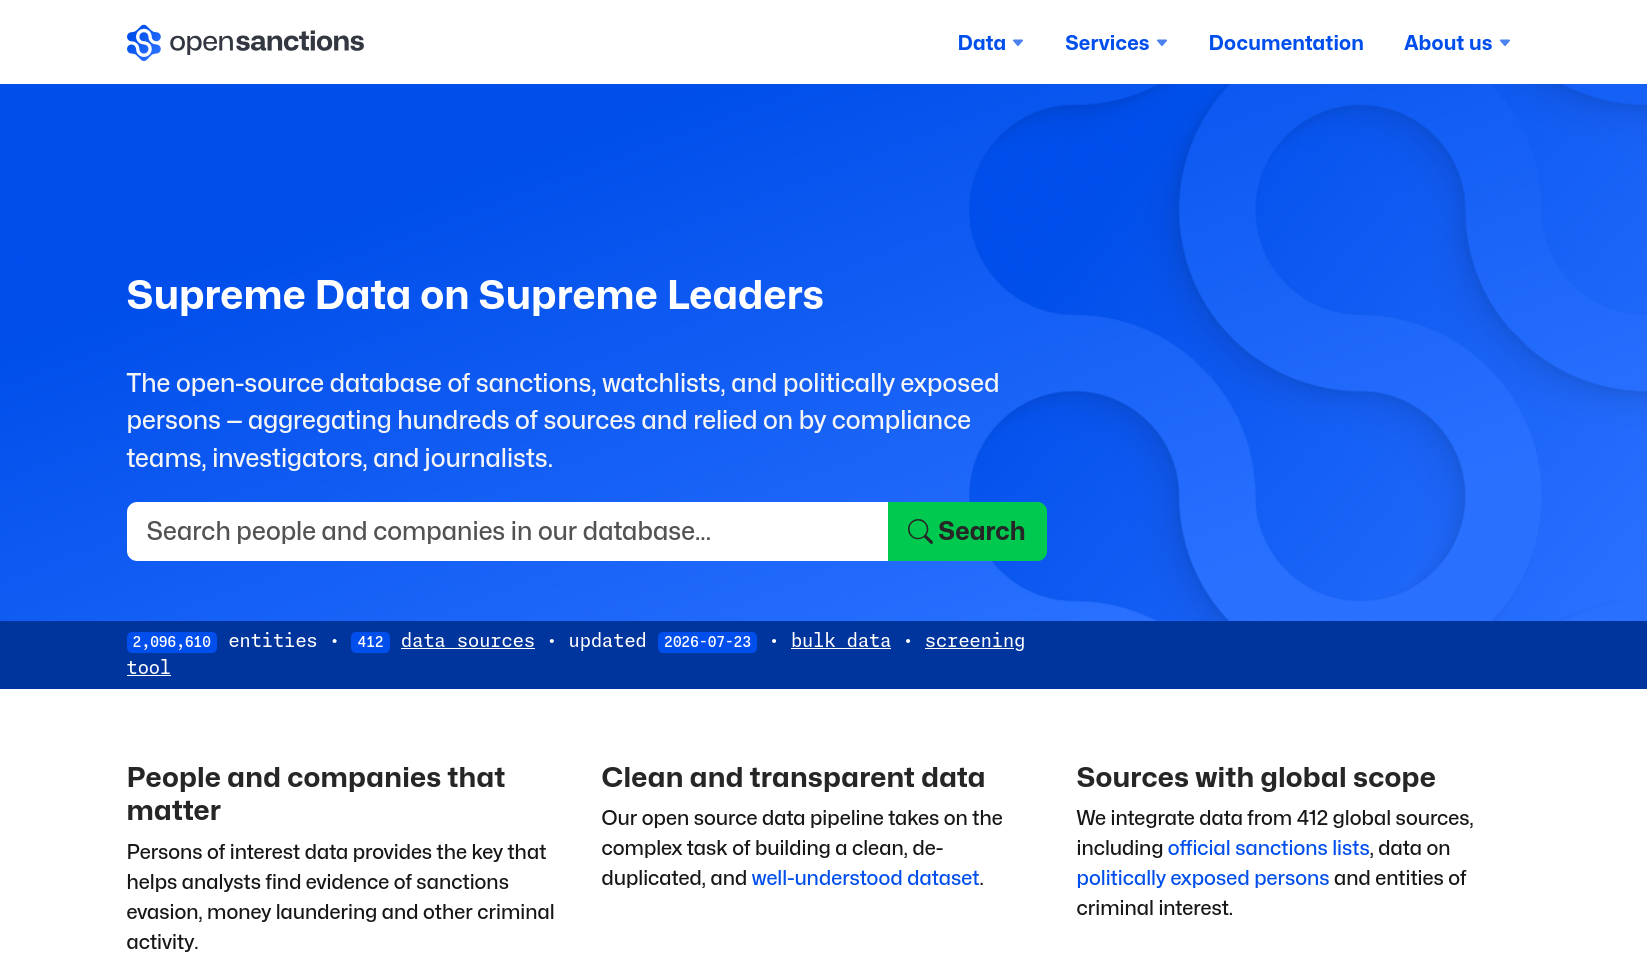
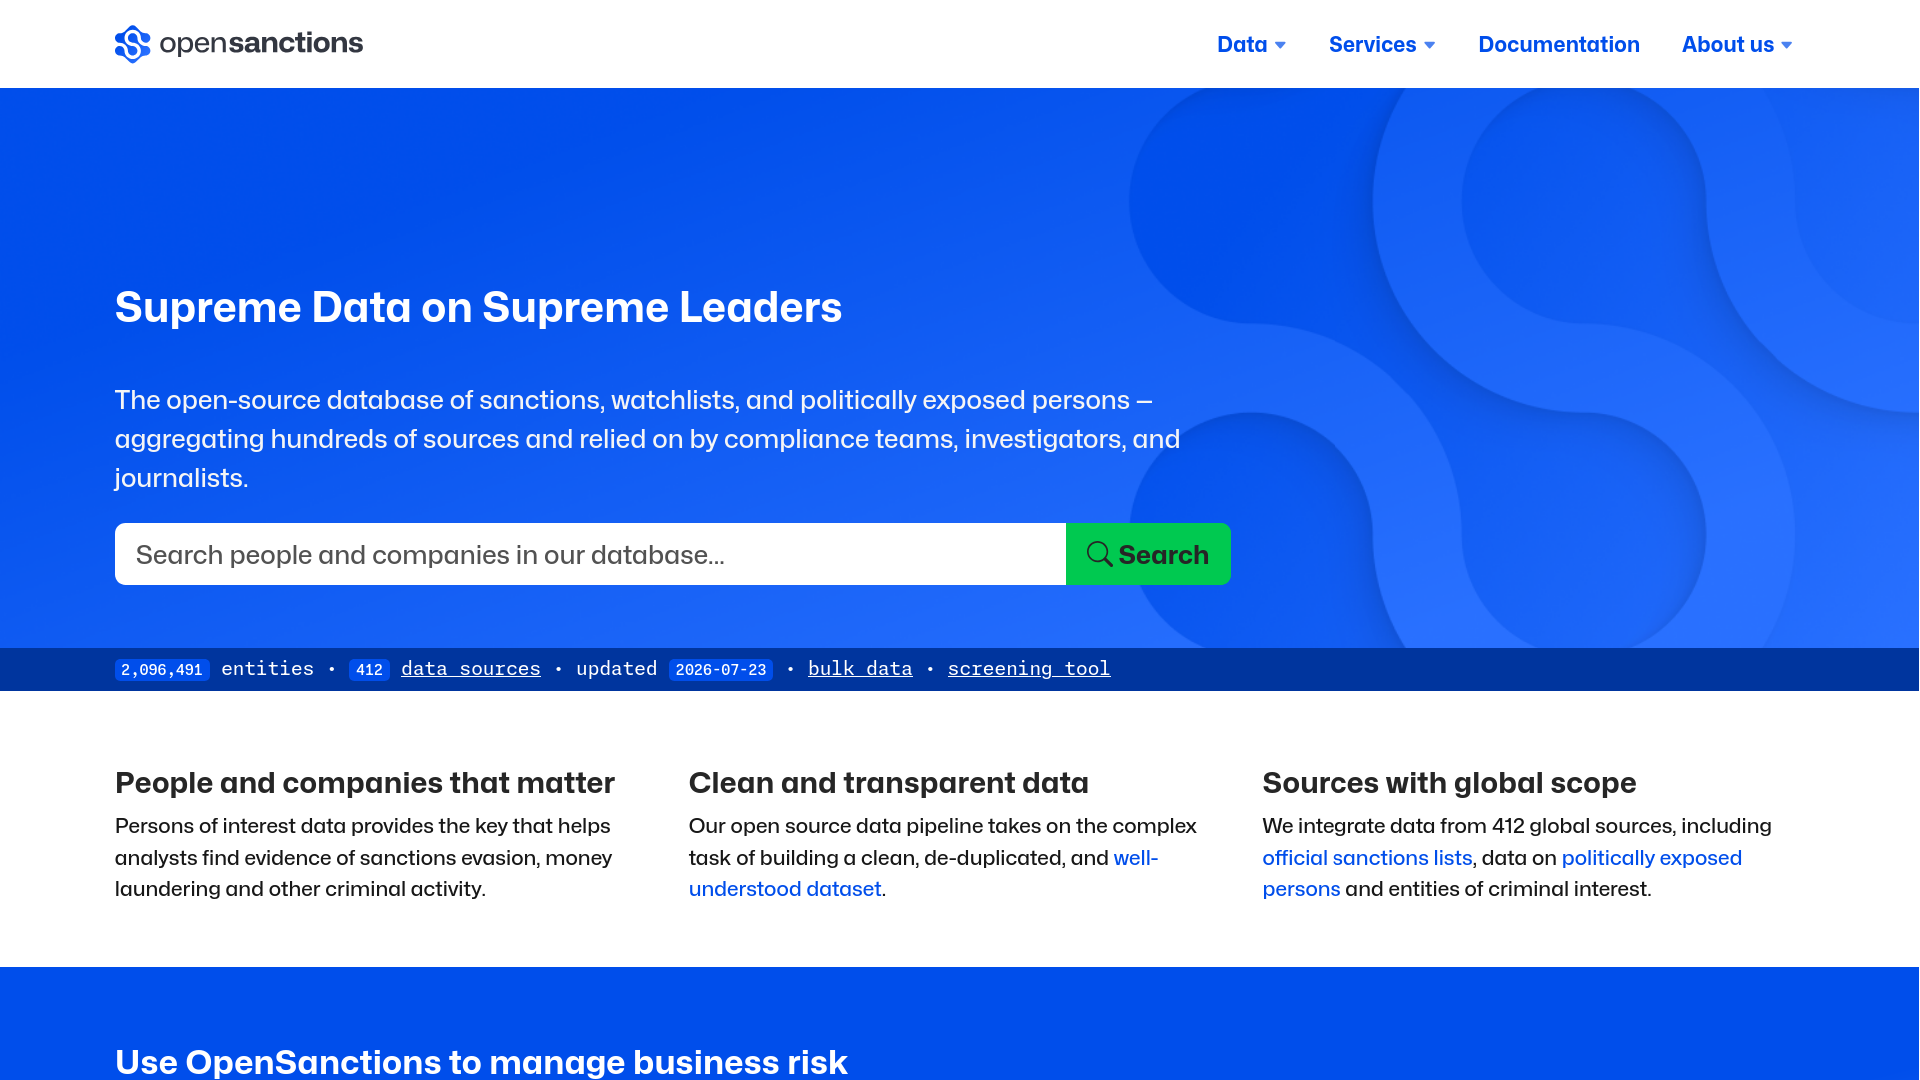
punctuation, screenshot

diff --git a/index.html b/index.html
@@ -254,7 +254,7 @@
         <section class="quote-slide">
           <blockquote>
             &#8220;A lot of the data on the municipality level is still
-            <mark>not accessible or even digital</mark>&#8221;
+            <mark>not accessible or even digital</mark>.&#8221;
           </blockquote>
         </section>
 
@@ -392,7 +392,7 @@
           <p>
             <strong>There is no agreed answer.</strong>
           </p>
-          <p>(We don't have one either)</p>
+          <p>(We don't have one either.)</p>
         </section>
 
         <section>
@@ -462,7 +462,7 @@
           <ul>
             <li>
               mySociety built EveryPolitician — paused 2019, unsustainable on
-              grant funding
+              grant funding.
             </li>
           </ul>
         </section>
@@ -533,10 +533,10 @@
         <section>
           <h2>That's PoliLoom</h2>
           <ul>
-            <li class="fragment">Shows claims + the source passages</li>
-            <li class="fragment">You confirm or reject</li>
+            <li class="fragment">Shows claims + the source passages.</li>
+            <li class="fragment">You confirm or reject.</li>
             <li class="fragment">
-              Confirmed edits go to Wikidata under <em>your</em> account
+              Confirmed edits go to Wikidata under <em>your</em> account.
             </li>
           </ul>
         </section>
@@ -1371,18 +1371,18 @@
                 target="_blank"
                 rel="noopener"
                 >loom.everypolitician.org</a
-              >
+              >.
             </li>
-            <li>Log in with your Wiki account</li>
-            <li>Chose languages you speak (and optionally a country)</li>
-            <li>Verify</li>
+            <li>Log in with your Wiki account.</li>
+            <li>Choose languages you speak (and optionally a country).</li>
+            <li>Verify.</li>
           </ol>
         </section>
 
         <section>
           <h2>Thank you</h2>
           <p>
-            You just improved the public record 👏
+            You just improved the public record. 👏
           </p>
         </section>
 
@@ -1410,13 +1410,13 @@
                 target="_blank"
                 rel="noopener"
                 >EveryPolitician</a
-              >
+              >.
             </li>
             <li class="fragment">
-              Academic? Verifying claims makes a great classroom exercise
+              Academic? Verifying claims makes a great classroom exercise.
             </li>
             <li class="fragment">
-              Bring it to your wiki meetup, edit-a-thon, or hackathon
+              Bring it to your wiki meetup, edit-a-thon, or hackathon.
             </li>
             <li class="fragment">
               Know anybody who needs this? Please introduce us!